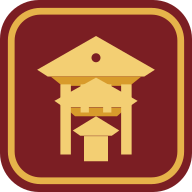
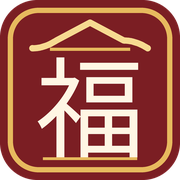
Add files via upload

diff --git a/index.html b/index.html
@@ -1,19 +1,20 @@
-<!-- 2026-09-10 00:55 変更済み -->
+<!-- 2026-09-24 検索表示・独自ドメイン用更新 -->
 <!DOCTYPE html>
 <html lang="ja">
 <head>
-<link rel="icon" href="favicon.svg" type="image/svg+xml">
-<link rel="icon" href="favicon.ico" sizes="any">
-<link rel="apple-touch-icon" href="apple-touch-icon.png">
+<link rel="icon" href="./favicon.png" type="image/png" sizes="512x512">
+<link rel="apple-touch-icon" href="./apple-touch-icon.png" sizes="180x180">
 <meta charset="UTF-8">
 <meta name="viewport" content="width=device-width, initial-scale=1.0, viewport-fit=cover">
 <title>中国料理 福林楼 | 博多駅南・山東料理・町中華</title>
 <meta name="description" content="福岡市博多区博多駅南の中国料理 福林楼。30年以上の経験を持つ中国人シェフによる山東料理・町中華です。店内予約、オードブル予約、メニュー、Instagramはこちらから。電話 092-481-1369。">
 <meta name="keywords" content="福林楼,フクリンロウ,博多,博多駅南,中国料理,中華料理,山東料理,町中華,オードブル,テイクアウト,宴会">
 <link rel="stylesheet" href="./style.css">
-<link rel="canonical" href="https://fukurinrou.github.io/fukurinrou-hp/">
+<link rel="canonical" href="https://fukurinrou.jp/">
 
 <meta property="og:type" content="restaurant">
+<meta property="og:site_name" content="福林楼">
+<meta property="og:url" content="https://fukurinrou.jp/">
 <meta property="og:title" content="中国料理 福林楼 | 博多駅南・山東料理・町中華">
 <meta property="og:description" content="店内予約・オードブル予約・メニュー・店舗情報はこちら。">
 <meta property="og:locale" content="ja_JP">
@@ -21,9 +22,19 @@
 <script type="application/ld+json">
 {
   "@context": "https://schema.org",
+  "@type": "WebSite",
+  "name": "福林楼",
+  "alternateName": "中国料理 福林楼",
+  "url": "https://fukurinrou.jp/"
+}
+</script>
+<script type="application/ld+json">
+{
+  "@context": "https://schema.org",
   "@type": "Restaurant",
   "name": "福林楼",
   "alternateName": "フクリンロウ",
+  "url": "https://fukurinrou.jp/",
   "servesCuisine": "Chinese",
   "telephone": "+81-92-481-1369",
   "priceRange": "¥¥",
@@ -39,7 +50,7 @@
     {"@type": "OpeningHoursSpecification", "dayOfWeek": ["Monday","Tuesday","Wednesday","Thursday","Friday","Saturday"], "opens": "11:30", "closes": "14:00"},
     {"@type": "OpeningHoursSpecification", "dayOfWeek": ["Monday","Tuesday","Wednesday","Thursday","Friday","Saturday","Sunday"], "opens": "17:30", "closes": "22:00"}
   ],
-  "menu": "https://fukurinrou.github.io/fukurinrou-hp/menu.html",
+  "menu": "https://fukurinrou.jp/menu.html",
   "acceptsReservations": "True"
 }
 </script>

diff --git a/menu.html b/menu.html
@@ -5,7 +5,10 @@
   <meta name="viewport" content="width=device-width,initial-scale=1,viewport-fit=cover">
   <title>コース料理・お料理メニュー｜中国料理 福林楼</title>
   <meta name="description" content="中国料理 福林楼の料理メニュー。コース料理、一品料理、前菜、点心など、種類を選んでご覧いただけます。各コース2名様から承ります。">
-  <link rel="icon" href="./favicon.ico" sizes="any">
+  <link rel="canonical" href="https://fukurinrou.jp/menu.html">
+  <meta property="og:site_name" content="福林楼">
+  <link rel="icon" href="./favicon.png" type="image/png" sizes="512x512">
+  <link rel="apple-touch-icon" href="./apple-touch-icon.png" sizes="180x180">
   <link rel="stylesheet" href="./menu.css?v=20260924">
 </head>
 <body>
